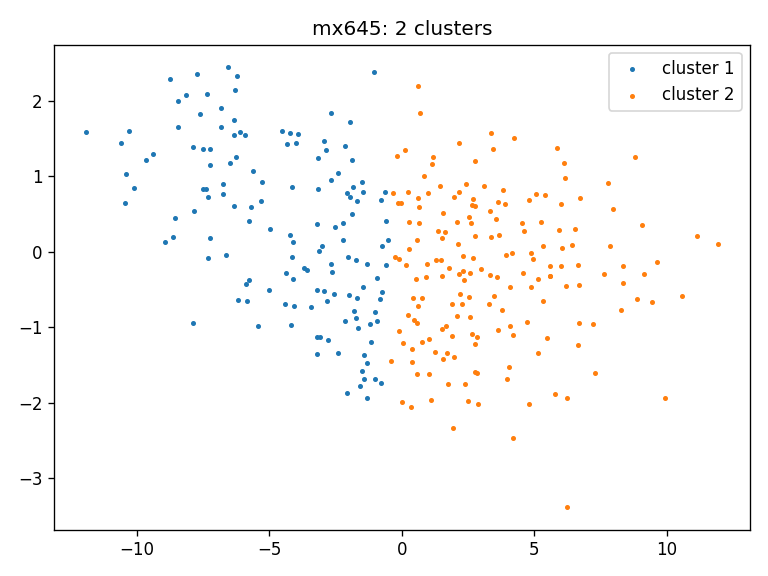
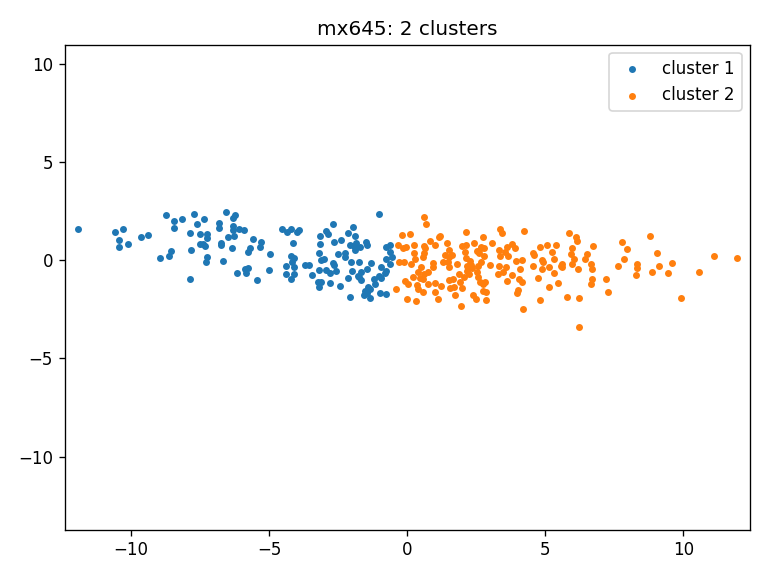
updated cluster plots to a common range for all three clusters

diff --git a/cluster_calculation.py b/cluster_calculation.py
@@ -44,7 +44,9 @@ def plot_subplot(labels, unique_labels, dataset, title, index):
     plt.tight_layout()
 
 
-def plot_independent_figure(labels, unique_labels, dataset, title, image_name):
+def plot_independent_figure(labels, unique_labels, dataset,
+                            title, image_name,
+                            x_limit=None, y_limit=None):
     ax = plt.subplot(1, 1, 1)
     for i in unique_labels:
         x = dataset[labels == i, 0]
@@ -52,7 +54,10 @@ def plot_independent_figure(labels, unique_labels, dataset, title, image_name):
         label = f"cluster {i + 1}"
         if i == -1:
             label = "noise"
-        ax.scatter(x, y, label=label, s=4)
+        ax.scatter(x, y, label=label, s=10)
+        if x_limit and y_limit:
+            ax.set_xlim(x_limit)
+            ax.set_ylim(y_limit)
         ax.legend()
     ax.set_title(title)
     plt.tight_layout()
@@ -70,6 +75,33 @@ def generate_kmeans_clusters(mx_645_mds_path,
     dataset_mx_645 = get_dataset(mx_645_mds_path)
     dataset_mx_1400 = get_dataset(mx_1400_mds_path)
     dataset_std_2500 = get_dataset(std_2500_mds_path)
+
+    max_x = max([
+        max([row[0] for row in dataset_mx_645]),
+        max([row[0] for row in dataset_mx_1400]),
+        max([row[0] for row in dataset_std_2500]),
+    ])
+    max_y = max([
+        max([row[1] for row in dataset_mx_645]),
+        max([row[1] for row in dataset_mx_1400]),
+        max([row[1] for row in dataset_std_2500]),
+    ])
+    min_x = min([
+        min([row[0] for row in dataset_mx_645]),
+        min([row[0] for row in dataset_mx_1400]),
+        min([row[0] for row in dataset_std_2500]),
+    ])
+    min_y = min([
+        min([row[1] for row in dataset_mx_645]),
+        min([row[1] for row in dataset_mx_1400]),
+        min([row[1] for row in dataset_std_2500]),
+    ])
+    padding = 0.02
+    x_limit = [min_x - padding * (max_x - min_x),
+               max_x + padding * (max_x - min_x)]
+    y_limit = [min_y - padding * (max_y - min_y),
+               max_y + padding * (max_y - min_y)]
+
     n_clusters_645, labels_645 = get_labels_highest_score(dataset_mx_645)
     unique_labels_645 = np.unique(labels_645)
     n_clusters_1400, labels_1400 = get_labels_highest_score(dataset_mx_1400)
@@ -87,7 +119,9 @@ def generate_kmeans_clusters(mx_645_mds_path,
         plot_subplot(labels_645, unique_labels_645, dataset_mx_645, title, 1)
     else:
         plot_independent_figure(labels_645, unique_labels_645, dataset_mx_645,
-                                title, image_name)
+                                title, image_name,
+                                x_limit=x_limit,
+                                y_limit=y_limit)
         print(f"Generated {image_name}")
     title = f'mx1400: {n_clusters_1400} clusters'
     image_name = f"{output_directory}/clusters_mx1400_{distance}.png"
@@ -96,7 +130,9 @@ def generate_kmeans_clusters(mx_645_mds_path,
                      title, 2)
     else:
         plot_independent_figure(labels_1400, unique_labels_1400,
-                                dataset_mx_1400, title, image_name)
+                                dataset_mx_1400, title, image_name,
+                                x_limit=x_limit,
+                                y_limit=y_limit)
         print(f"Generated {image_name}")
     title = f'std2500: {n_clusters_2500} clusters'
     image_name = f"{output_directory}/clusters_std2500_{distance}.png"
@@ -110,7 +146,9 @@ def generate_kmeans_clusters(mx_645_mds_path,
         plt.close()
     else:
         plot_independent_figure(labels_2500, unique_labels_2500,
-                                dataset_std_2500, title, image_name)
+                                dataset_std_2500, title, image_name,
+                                x_limit=x_limit,
+                                y_limit=y_limit)
     print(f"Generated {image_name}")
 
     with open(cluster_file, "w") as json_file:

diff --git a/README.md b/README.md
@@ -48,7 +48,7 @@ matrix
     - WD(std2500 - mx645)
 - Generated 1 JSON file with 316 arrays, each array contains 3 values
 - Generated
-  file: [distances_between_cohorts_ws.json](output/distances_between_cohorts_ws.json)
+  file: [distances_between_cohorts_ws.json](output_linear/distances_between_cohorts_ws.json)
 
 ## Pipeline 2: Comparison within a cohort
 
@@ -72,9 +72,9 @@ matrix
     - WD_matrix(std2500): 316 x 316
 - Generated 3 JSON files each with 316 x 316 matrix
 - Generated files:
-    - [distance_matrix_mx645_ws.json](output/distance_matrix_mx645_ws.json)
-    - [distance_matrix_mx1400_ws.json](output/distance_matrix_mx1400_ws.json)
-    - [distance_matrix_std2500_ws.json](output/distance_matrix_std2500_ws.json)
+    - [distance_matrix_mx645_ws.json](output_linear/distance_matrix_mx645_ws.json)
+    - [distance_matrix_mx1400_ws.json](output_linear/distance_matrix_mx1400_ws.json)
+    - [distance_matrix_std2500_ws.json](output_linear/distance_matrix_std2500_ws.json)
 
 ### Multidimensional scaling (Wasserstein distance)
 
@@ -83,12 +83,12 @@ matrix
 - Calculated MDS of 2 components for each 1-Wasserstein distance matrix
 - Generated 3 JSON files each with 316 x 2 matrix
 - Generated files:
-    - [mds_mx645_ws.json](output/mds_mx645_ws.json)
-    - [mds_mx1400_ws.json](output/mds_mx1400_ws.json)
-    - [mds_std2500_ws.json](output/mds_std2500_ws.json)
+    - [mds_mx645_ws.json](output_linear/mds_mx645_ws.json)
+    - [mds_mx1400_ws.json](output_linear/mds_mx1400_ws.json)
+    - [mds_std2500_ws.json](output_linear/mds_std2500_ws.json)
 - Applied Kmeans++ clustering by selecting the number of clusters `n` using
   Silhouette Coefficient.
-    - [clustering_ws.json](output/clusters_ws.json)
+    - [clustering_ws.json](output_linear/clusters_ws.json)
 
 ## Statistical analysis
 
